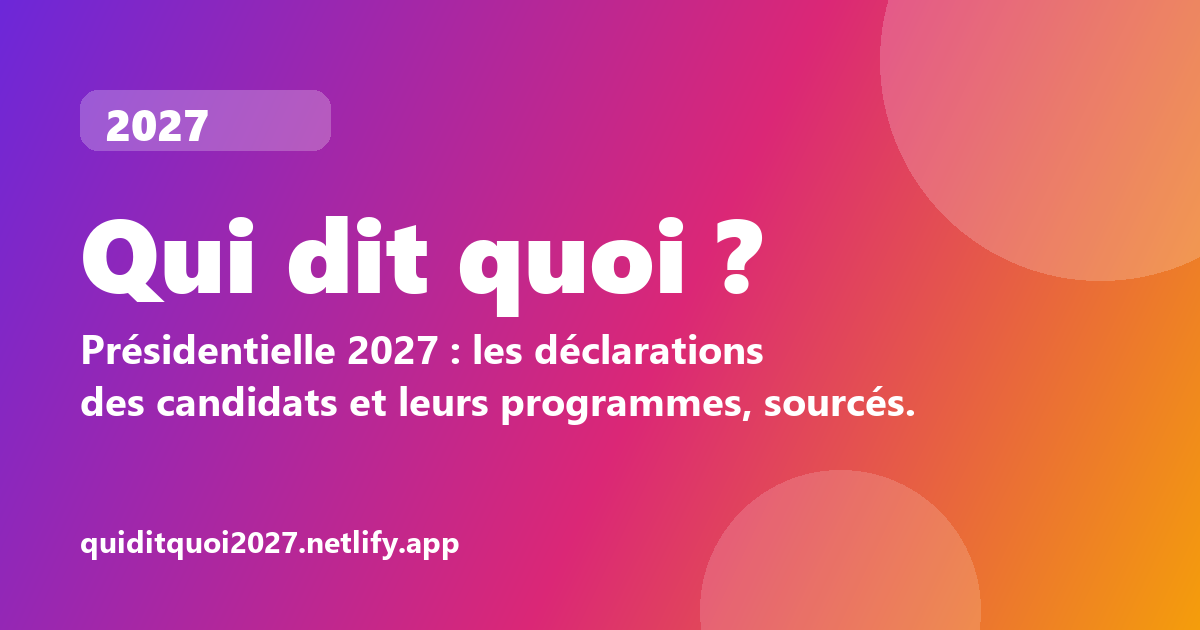
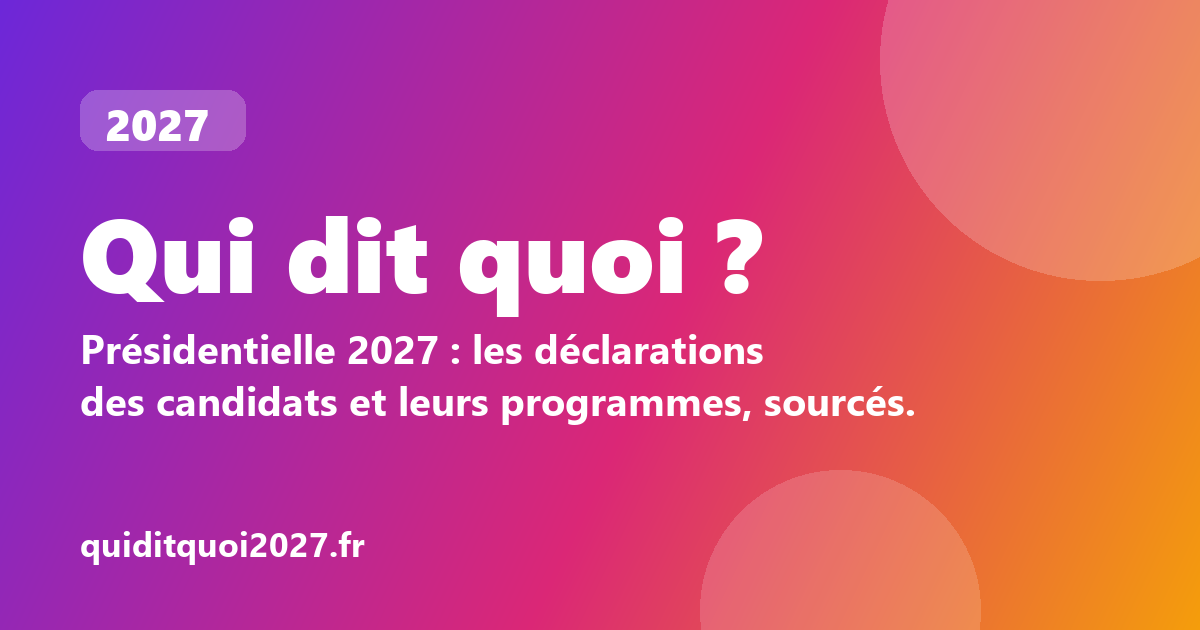
Photos des candidats (Wikimedia Commons, licences libres, crédits) et passage au domaine quiditquoi2027.fr

Changed region(s): [[0.0617, 0.8444, 0.4008, 0.9048], [0.185, 0.1206, 0.2775, 0.2413]]

diff --git a/programmes.html b/programmes.html
@@ -8,14 +8,14 @@
   <link rel="preconnect" href="https://fonts.googleapis.com">
   <link href="https://fonts.googleapis.com/css2?family=Plus+Jakarta+Sans:wght@400;500;600;700;800&display=swap" rel="stylesheet">
   <link rel="stylesheet" href="assets/style.css">
-  <link rel="canonical" href="https://quiditquoi2027.netlify.app/programmes.html">
+  <link rel="canonical" href="https://quiditquoi2027.fr/programmes.html">
   <meta property="og:type" content="website">
   <meta property="og:site_name" content="Qui dit quoi 2027">
   <meta property="og:locale" content="fr_FR">
   <meta property="og:title" content="Programmes des candidats 2027 : le tableau comparatif — Qui dit quoi 2027">
   <meta property="og:description" content="Les programmes des candidats à la présidentielle 2027 en un tableau : écologie, finances, international, social. Chaque proposition est sourcée.">
-  <meta property="og:url" content="https://quiditquoi2027.netlify.app/programmes.html">
-  <meta property="og:image" content="https://quiditquoi2027.netlify.app/assets/og.png">
+  <meta property="og:url" content="https://quiditquoi2027.fr/programmes.html">
+  <meta property="og:image" content="https://quiditquoi2027.fr/assets/og.png">
   <meta property="og:image:width" content="1200">
   <meta property="og:image:height" content="630">
   <meta name="twitter:card" content="summary_large_image">

diff --git a/comparateur.html b/comparateur.html
@@ -8,14 +8,14 @@
   <link rel="preconnect" href="https://fonts.googleapis.com">
   <link href="https://fonts.googleapis.com/css2?family=Plus+Jakarta+Sans:wght@400;500;600;700;800&display=swap" rel="stylesheet">
   <link rel="stylesheet" href="assets/style.css">
-  <link rel="canonical" href="https://quiditquoi2027.netlify.app/comparateur.html">
+  <link rel="canonical" href="https://quiditquoi2027.fr/comparateur.html">
   <meta property="og:type" content="website">
   <meta property="og:site_name" content="Qui dit quoi 2027">
   <meta property="og:locale" content="fr_FR">
   <meta property="og:title" content="Comparateur des programmes 2027 — Qui dit quoi 2027">
   <meta property="og:description" content="Comparez les positions des candidats à la présidentielle 2027 thème par thème : retraites, pouvoir d'achat, immigration, écologie…">
-  <meta property="og:url" content="https://quiditquoi2027.netlify.app/comparateur.html">
-  <meta property="og:image" content="https://quiditquoi2027.netlify.app/assets/og.png">
+  <meta property="og:url" content="https://quiditquoi2027.fr/comparateur.html">
+  <meta property="og:image" content="https://quiditquoi2027.fr/assets/og.png">
   <meta property="og:image:width" content="1200">
   <meta property="og:image:height" content="630">
   <meta name="twitter:card" content="summary_large_image">

diff --git a/declarations.html b/declarations.html
@@ -8,14 +8,14 @@
   <link rel="preconnect" href="https://fonts.googleapis.com">
   <link href="https://fonts.googleapis.com/css2?family=Plus+Jakarta+Sans:wght@400;500;600;700;800&display=swap" rel="stylesheet">
   <link rel="stylesheet" href="assets/style.css">
-  <link rel="canonical" href="https://quiditquoi2027.netlify.app/declarations.html">
+  <link rel="canonical" href="https://quiditquoi2027.fr/declarations.html">
   <meta property="og:type" content="website">
   <meta property="og:site_name" content="Qui dit quoi 2027">
   <meta property="og:locale" content="fr_FR">
   <meta property="og:title" content="Déclarations des candidats 2027 — Qui dit quoi 2027">
   <meta property="og:description" content="Toutes les déclarations des candidats à la présidentielle 2027, datées et sourcées, filtrables par candidat et par thème.">
-  <meta property="og:url" content="https://quiditquoi2027.netlify.app/declarations.html">
-  <meta property="og:image" content="https://quiditquoi2027.netlify.app/assets/og.png">
+  <meta property="og:url" content="https://quiditquoi2027.fr/declarations.html">
+  <meta property="og:image" content="https://quiditquoi2027.fr/assets/og.png">
   <meta property="og:image:width" content="1200">
   <meta property="og:image:height" content="630">
   <meta name="twitter:card" content="summary_large_image">

diff --git a/assets/app.js b/assets/app.js
@@ -13,7 +13,8 @@ function main(D) {
   const posOf = (cid, tid) => D.positions.filter((p) => p.candidat === cid && p.theme === tid);
   const sourceLink = (src, label = "Source") => `<a class="source-link" href="${esc(src.url)}" target="_blank" rel="noopener nofollow">${label} : ${esc(src.titre)} ↗</a>`;
 
-  const avatar = (c, cls = "") => `<div class="avatar ${cls}" style="--c:${esc(c.couleur)}">${esc(initials(c.nom))}</div>`;
+  const avatar = (c, cls = "") =>
+    `<div class="avatar ${cls}" style="--c:${esc(c.couleur)}">${c.photo ? `<img src="${esc(c.photo.fichier)}" alt="${esc(c.nom)}" loading="lazy">` : esc(initials(c.nom))}</div>`;
   const exempleBadge = (x) => (x.exemple ? `<span class="badge exemple">Exemple</span>` : "");
 
   // ---------- Layout ----------
@@ -146,7 +147,8 @@ function main(D) {
           </div>
         </div>
       </div>
-      <p class="page-intro">${esc(c.bio)}${c.source ? `<br>${sourceLink(c.source)}` : ""}</p>`;
+      <p class="page-intro">${esc(c.bio)}${c.source ? `<br>${sourceLink(c.source)}` : ""}</p>
+      ${c.photo ? `<p class="photo-credit">Photo : <a href="${esc(c.photo.url)}" target="_blank" rel="noopener">${esc(c.photo.credit)}</a>, via Wikimedia Commons</p>` : ""}`;
 
     const pos = D.positions.filter((p) => p.candidat === c.id);
     $("#positions").innerHTML = pos.length

diff --git a/calendrier.html b/calendrier.html
@@ -8,14 +8,14 @@
   <link rel="preconnect" href="https://fonts.googleapis.com">
   <link href="https://fonts.googleapis.com/css2?family=Plus+Jakarta+Sans:wght@400;500;600;700;800&display=swap" rel="stylesheet">
   <link rel="stylesheet" href="assets/style.css">
-  <link rel="canonical" href="https://quiditquoi2027.netlify.app/calendrier.html">
+  <link rel="canonical" href="https://quiditquoi2027.fr/calendrier.html">
   <meta property="og:type" content="website">
   <meta property="og:site_name" content="Qui dit quoi 2027">
   <meta property="og:locale" content="fr_FR">
   <meta property="og:title" content="Calendrier de la présidentielle 2027 — Qui dit quoi 2027">
   <meta property="og:description" content="Les dates clés de l'élection présidentielle 2027 : parrainages, liste officielle, premier et second tour.">
-  <meta property="og:url" content="https://quiditquoi2027.netlify.app/calendrier.html">
-  <meta property="og:image" content="https://quiditquoi2027.netlify.app/assets/og.png">
+  <meta property="og:url" content="https://quiditquoi2027.fr/calendrier.html">
+  <meta property="og:image" content="https://quiditquoi2027.fr/assets/og.png">
   <meta property="og:image:width" content="1200">
   <meta property="og:image:height" content="630">
   <meta name="twitter:card" content="summary_large_image">

diff --git a/index.html b/index.html
@@ -8,14 +8,14 @@
   <link rel="preconnect" href="https://fonts.googleapis.com">
   <link href="https://fonts.googleapis.com/css2?family=Plus+Jakarta+Sans:wght@400;500;600;700;800&display=swap" rel="stylesheet">
   <link rel="stylesheet" href="assets/style.css">
-  <link rel="canonical" href="https://quiditquoi2027.netlify.app/">
+  <link rel="canonical" href="https://quiditquoi2027.fr/">
   <meta property="og:type" content="website">
   <meta property="og:site_name" content="Qui dit quoi 2027">
   <meta property="og:locale" content="fr_FR">
   <meta property="og:title" content="Qui dit quoi 2027 — Présidentielle : candidats, déclarations, programmes">
   <meta property="og:description" content="Suivez la présidentielle 2027 : candidats déclarés, dernières déclarations sourcées et comparateur des programmes thème par thème.">
-  <meta property="og:url" content="https://quiditquoi2027.netlify.app/">
-  <meta property="og:image" content="https://quiditquoi2027.netlify.app/assets/og.png">
+  <meta property="og:url" content="https://quiditquoi2027.fr/">
+  <meta property="og:image" content="https://quiditquoi2027.fr/assets/og.png">
   <meta property="og:image:width" content="1200">
   <meta property="og:image:height" content="630">
   <meta name="twitter:card" content="summary_large_image">

diff --git a/candidats.html b/candidats.html
@@ -8,14 +8,14 @@
   <link rel="preconnect" href="https://fonts.googleapis.com">
   <link href="https://fonts.googleapis.com/css2?family=Plus+Jakarta+Sans:wght@400;500;600;700;800&display=swap" rel="stylesheet">
   <link rel="stylesheet" href="assets/style.css">
-  <link rel="canonical" href="https://quiditquoi2027.netlify.app/candidats.html">
+  <link rel="canonical" href="https://quiditquoi2027.fr/candidats.html">
   <meta property="og:type" content="website">
   <meta property="og:site_name" content="Qui dit quoi 2027">
   <meta property="og:locale" content="fr_FR">
   <meta property="og:title" content="Candidats à la présidentielle 2027 — Qui dit quoi 2027">
   <meta property="og:description" content="La liste des candidats déclarés et pressentis à l'élection présidentielle 2027.">
-  <meta property="og:url" content="https://quiditquoi2027.netlify.app/candidats.html">
-  <meta property="og:image" content="https://quiditquoi2027.netlify.app/assets/og.png">
+  <meta property="og:url" content="https://quiditquoi2027.fr/candidats.html">
+  <meta property="og:image" content="https://quiditquoi2027.fr/assets/og.png">
   <meta property="og:image:width" content="1200">
   <meta property="og:image:height" content="630">
   <meta name="twitter:card" content="summary_large_image">

diff --git a/a-propos.html b/a-propos.html
@@ -8,14 +8,14 @@
   <link rel="preconnect" href="https://fonts.googleapis.com">
   <link href="https://fonts.googleapis.com/css2?family=Plus+Jakarta+Sans:wght@400;500;600;700;800&display=swap" rel="stylesheet">
   <link rel="stylesheet" href="assets/style.css">
-  <link rel="canonical" href="https://quiditquoi2027.netlify.app/a-propos.html">
+  <link rel="canonical" href="https://quiditquoi2027.fr/a-propos.html">
   <meta property="og:type" content="website">
   <meta property="og:site_name" content="Qui dit quoi 2027">
   <meta property="og:locale" content="fr_FR">
   <meta property="og:title" content="Méthodologie et mentions — Qui dit quoi 2027">
   <meta property="og:description" content="Présidentielle 2027 : les déclarations des candidats et leurs programmes, toujours sourcés.">
-  <meta property="og:url" content="https://quiditquoi2027.netlify.app/a-propos.html">
-  <meta property="og:image" content="https://quiditquoi2027.netlify.app/assets/og.png">
+  <meta property="og:url" content="https://quiditquoi2027.fr/a-propos.html">
+  <meta property="og:image" content="https://quiditquoi2027.fr/assets/og.png">
   <meta property="og:image:width" content="1200">
   <meta property="og:image:height" content="630">
   <meta name="twitter:card" content="summary_large_image">

diff --git a/assets/style.css b/assets/style.css
@@ -113,6 +113,10 @@ a.card:hover { transform: translateY(-4px); }
   font-weight: 800; font-size: 1.2rem; color: #fff; background: var(--c);
   box-shadow: 0 8px 20px -8px var(--c);
 }
+.avatar { overflow: hidden; flex: none; }
+.avatar img { width: 100%; height: 100%; object-fit: cover; object-position: center 20%; display: block; }
+.photo-credit { font-size: .78rem; color: var(--muted); margin: -12px 0 24px; }
+.photo-credit a { color: var(--muted); }
 .avatar.lg { width: 96px; height: 96px; font-size: 2rem; border-radius: 24px; }
 .cand-card h3 { margin: 14px 0 2px; font-size: 1.2rem; }
 .cand-card .parti { color: var(--muted); font-size: .95rem; }

diff --git a/candidat.html b/candidat.html
@@ -13,7 +13,7 @@
   <meta property="og:locale" content="fr_FR">
   <meta property="og:title" content="Fiche candidat — Qui dit quoi 2027">
   <meta property="og:description" content="Présidentielle 2027 : les déclarations des candidats et leurs programmes, toujours sourcés.">
-  <meta property="og:image" content="https://quiditquoi2027.netlify.app/assets/og.png">
+  <meta property="og:image" content="https://quiditquoi2027.fr/assets/og.png">
   <meta property="og:image:width" content="1200">
   <meta property="og:image:height" content="630">
   <meta name="twitter:card" content="summary_large_image">

diff --git a/scripts/photos.py b/scripts/photos.py
@@ -1,0 +1,72 @@
+"""Télécharge une photo sous licence libre (Wikimedia Commons) pour chaque candidat sans photo.
+Usage : python scripts/photos.py            (candidats sans photo)
+        python scripts/photos.py --verifier (liste seulement, ne modifie rien)
+Les photos vont dans assets/photos/<id>.jpg ; data/data.json reçoit le champ "photo"."""
+import json, re, sys, urllib.parse, urllib.request
+from pathlib import Path
+
+ROOT = Path(__file__).resolve().parent.parent
+DATA = ROOT / "data" / "data.json"
+OUT = ROOT / "assets" / "photos"
+UA = {"User-Agent": "quiditquoi2027-bot/1.0 (https://quiditquoi2027.fr; loc.narsau@gmail.com)"}
+LIBRES = re.compile(r"^(CC0|CC BY(-SA)? [0-9.]+( [A-Za-z]+)?|Public domain|Domaine public|PD|Attribution|CC BY [0-9.]+|CC-BY[\w.-]*|Licence Ouverte.*|Etalab.*)", re.I)
+
+def api(host, params):
+    url = f"https://{host}/w/api.php?" + urllib.parse.urlencode({**params, "format": "json", "formatversion": 2})
+    with urllib.request.urlopen(urllib.request.Request(url, headers=UA), timeout=30) as r:
+        return json.load(r)
+
+def texte(html):
+    return re.sub(r"\s+", " ", re.sub(r"<[^>]+>", "", html or "")).strip()
+
+def photo_pour(nom):
+    q = api("fr.wikipedia.org", {"action": "query", "titles": nom, "prop": "pageimages", "piprop": "name", "redirects": 1})
+    page = q["query"]["pages"][0]
+    fichier = page.get("pageimage")
+    if not fichier:
+        return None, "pas d'image principale sur Wikipédia"
+    q = api("commons.wikimedia.org", {"action": "query", "titles": "File:" + fichier, "prop": "imageinfo",
+                                       "iiprop": "url|extmetadata", "iiurlwidth": 400})
+    pages = q["query"]["pages"]
+    if not pages or "imageinfo" not in pages[0]:
+        return None, "image absente de Commons (probablement non libre)"
+    ii = pages[0]["imageinfo"][0]
+    meta = ii.get("extmetadata", {})
+    licence = texte(meta.get("LicenseShortName", {}).get("value"))
+    if not LIBRES.match(licence):
+        return None, f"licence non reconnue comme libre : {licence!r}"
+    auteur = texte(meta.get("Artist", {}).get("value")) or "Auteur inconnu"
+    return {"thumb": ii["thumburl"], "credit": f"{auteur[:80]} — {licence}", "url": ii["descriptionurl"]}, None
+
+def main():
+    verif = "--verifier" in sys.argv
+    D = json.loads(DATA.read_text(encoding="utf-8"))
+    OUT.mkdir(parents=True, exist_ok=True)
+    lignes = DATA.read_text(encoding="utf-8").split("\n")
+    change = 0
+    for c in D["candidats"]:
+        if c.get("photo"):
+            continue
+        info, err = photo_pour(c["nom"])
+        if err:
+            print(f"- {c['nom']} : {err}")
+            continue
+        print(f"+ {c['nom']} : {info['credit']}")
+        if verif:
+            continue
+        dest = OUT / f"{c['id']}.jpg"
+        with urllib.request.urlopen(urllib.request.Request(info["thumb"], headers=UA), timeout=60) as r:
+            dest.write_bytes(r.read())
+        photo = {"fichier": f"assets/photos/{c['id']}.jpg", "credit": info["credit"], "url": info["url"]}
+        # Remplace la ligne du candidat en gardant le format « un objet par ligne ».
+        for i, l in enumerate(lignes):
+            if l.strip().startswith('{"id":"%s"' % c["id"]):
+                obj = json.loads(l.strip().rstrip(","))
+                obj["photo"] = photo
+                lignes[i] = l[: len(l) - len(l.lstrip())] + json.dumps(obj, ensure_ascii=False, separators=(",", ":")) + ("," if l.rstrip().endswith(",") else "")
+                change += 1
+    if change:
+        DATA.write_text("\n".join(lignes), encoding="utf-8", newline="\n")
+    print(f"{change} photo(s) ajoutée(s).")
+
+main()

diff --git a/scripts/valider.py b/scripts/valider.py
@@ -57,6 +57,12 @@ for c in D["candidats"]:
     if "dateDeclaration" in c:
         check_date(w, c["dateDeclaration"])
     check_source(w, c)
+    if "photo" in c:
+        ph = c["photo"]
+        if not (ph.get("fichier") and ph.get("credit") and ph.get("url")):
+            err(f"{w} : photo incomplète (fichier, credit, url)")
+        elif not (DATA.parent.parent / ph["fichier"]).is_file():
+            err(f"{w} : fichier photo introuvable {ph['fichier']}")
 
 seen = set()
 for i, d in enumerate(D["declarations"]):
